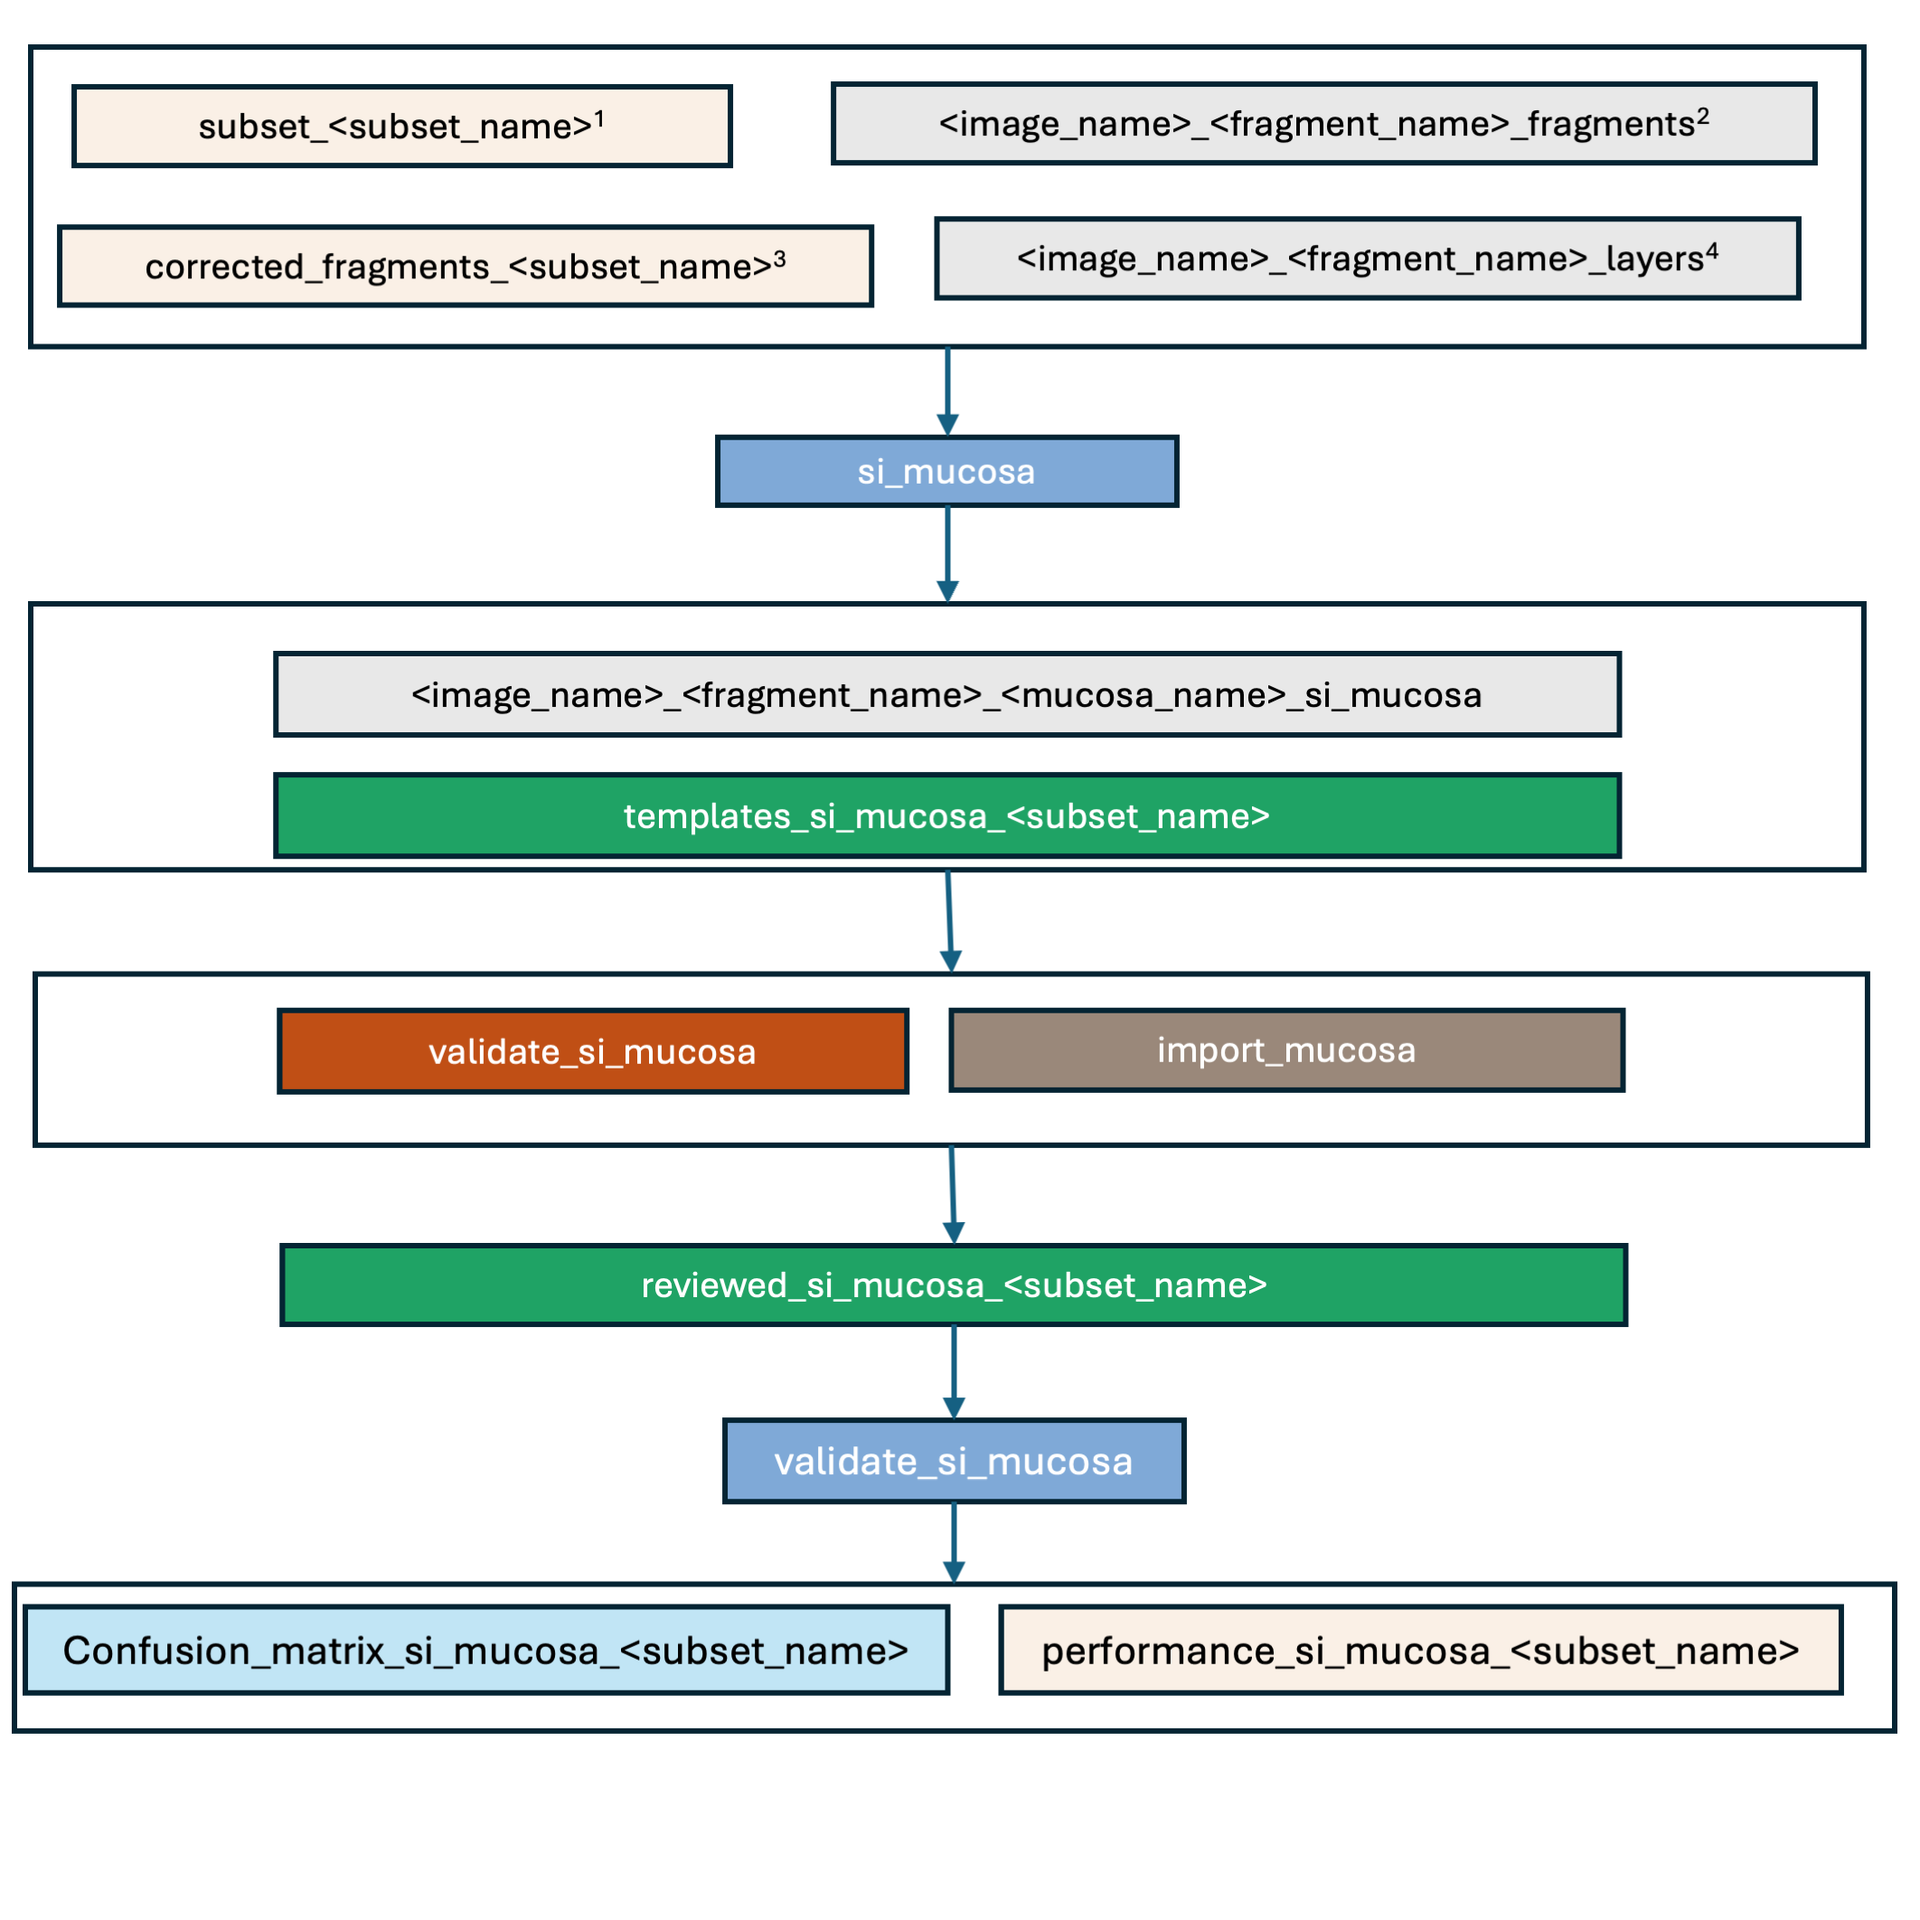
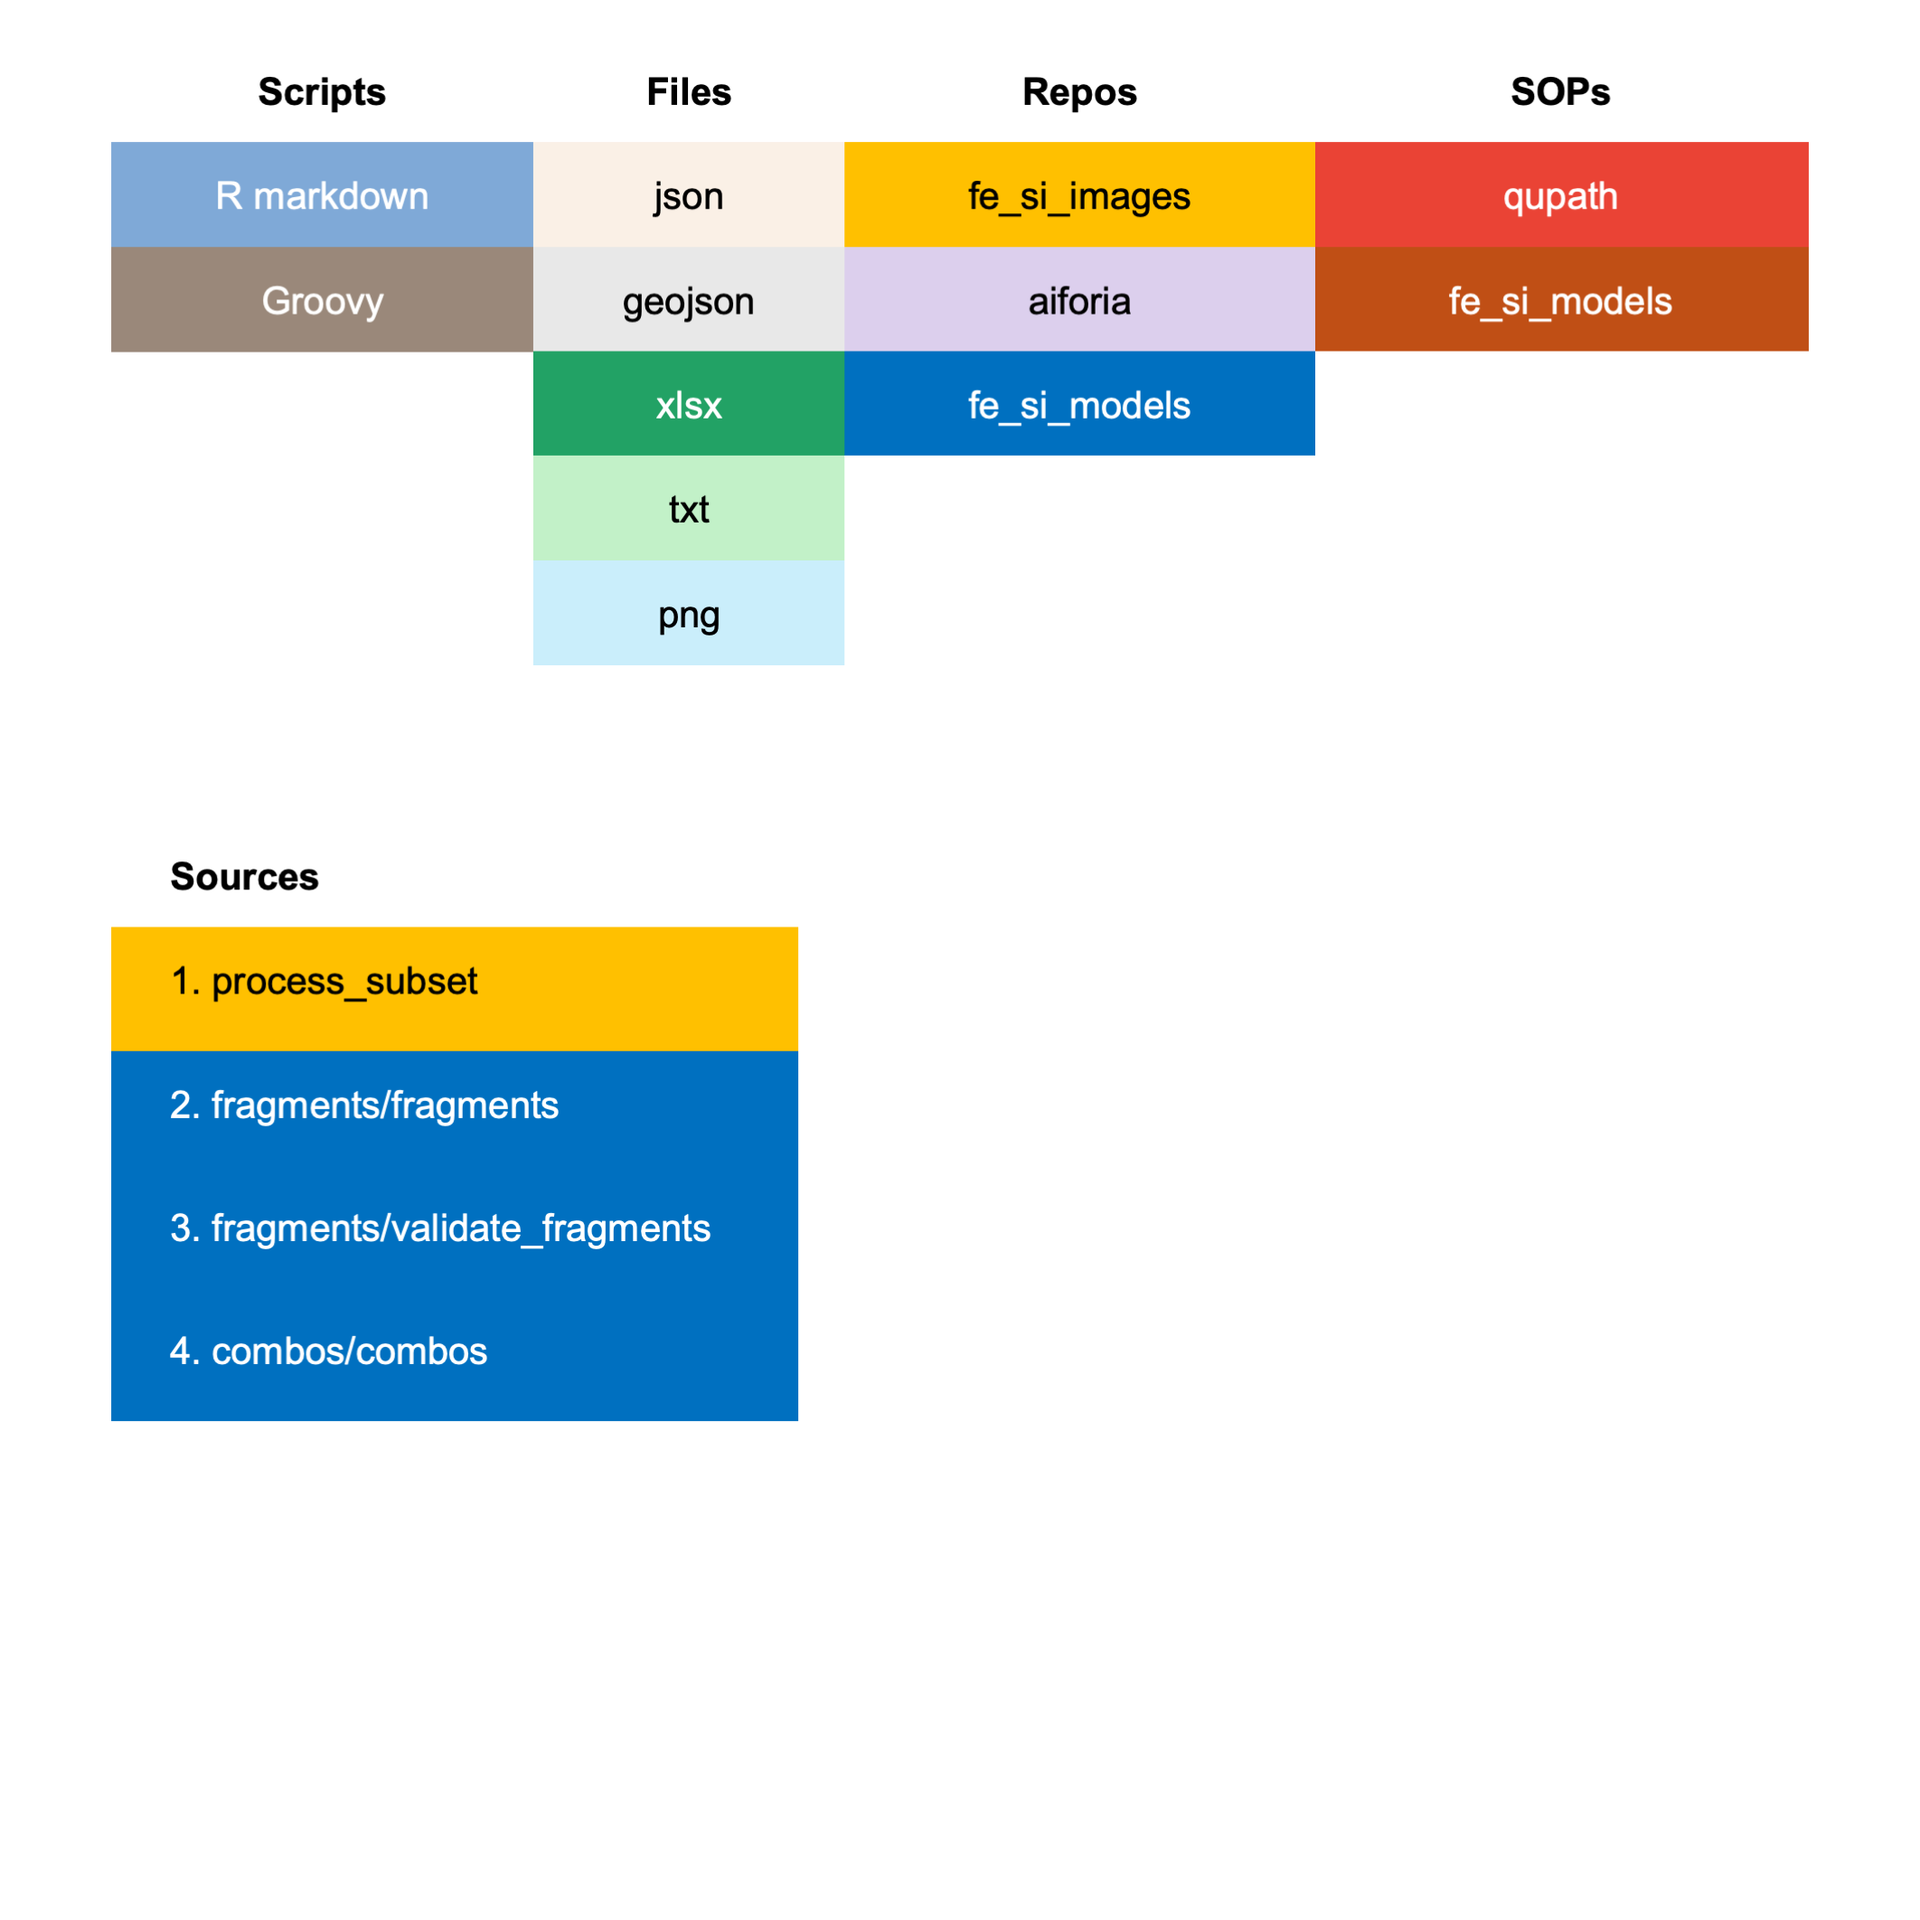
updated

diff --git a/README.md b/README.md
@@ -1,18 +1,21 @@
 ## Objective
 This repository is a way to collect information on different AI models developed
 for analyzing feline small intestinal biopsies. Each ai model has a folder, 
-that for the more complex models contains it's own README on model objectives & intended use, links to slide decks
-with SOPs, info on model type and platform, training, tuning and testing 
-strategies and case material used
-for development and testing.
+that for the more complex models contains it's own README on model objectives & 
+intended use, links to slide decks with SOPs, info on model type and platform, 
+training, tuning and testing strategies and case material used for development 
+and testing.
 
-Models versions and project versions are tracked here:
+For aiforia models, model versions and project versions are tracked here:
 https://docs.google.com/spreadsheets/d/1Bg5ZT4h1TjjKgKP76iZ03OzNSspau0jlSxPWKsOVVXw/edit?usp=sharing
 
 ### Models
-- tissue_vs_glass (traditional ML)
-- fragments (rule-based programming)
-- layers (CNN)
-
-### 2 Do
-Add tissue vs glass model nd fragments model to overview frame
+- *layers* (CNN, aiforia, part of combos, input for si_mucosa)
+- *tissues *(CNN, aiforia, part of combos, input for artefact)
+- *lymphocytes* (CNN, aiforia, part of combos, input for artefact)
+- *combos* (layers, tissues and lymphocytes, chained, aiforia)
+- *content_vs_background* (ruke-based, qupath, not in use)
+- *tissue_vs_glass *(classic ML, qupath, input for fragments)
+- *fragments* (rule-based, R, input for si_mucosa)
+- *si_mucosa* (rule-based, R, input for artefact)
+- *artefact* (rule-based, R)
